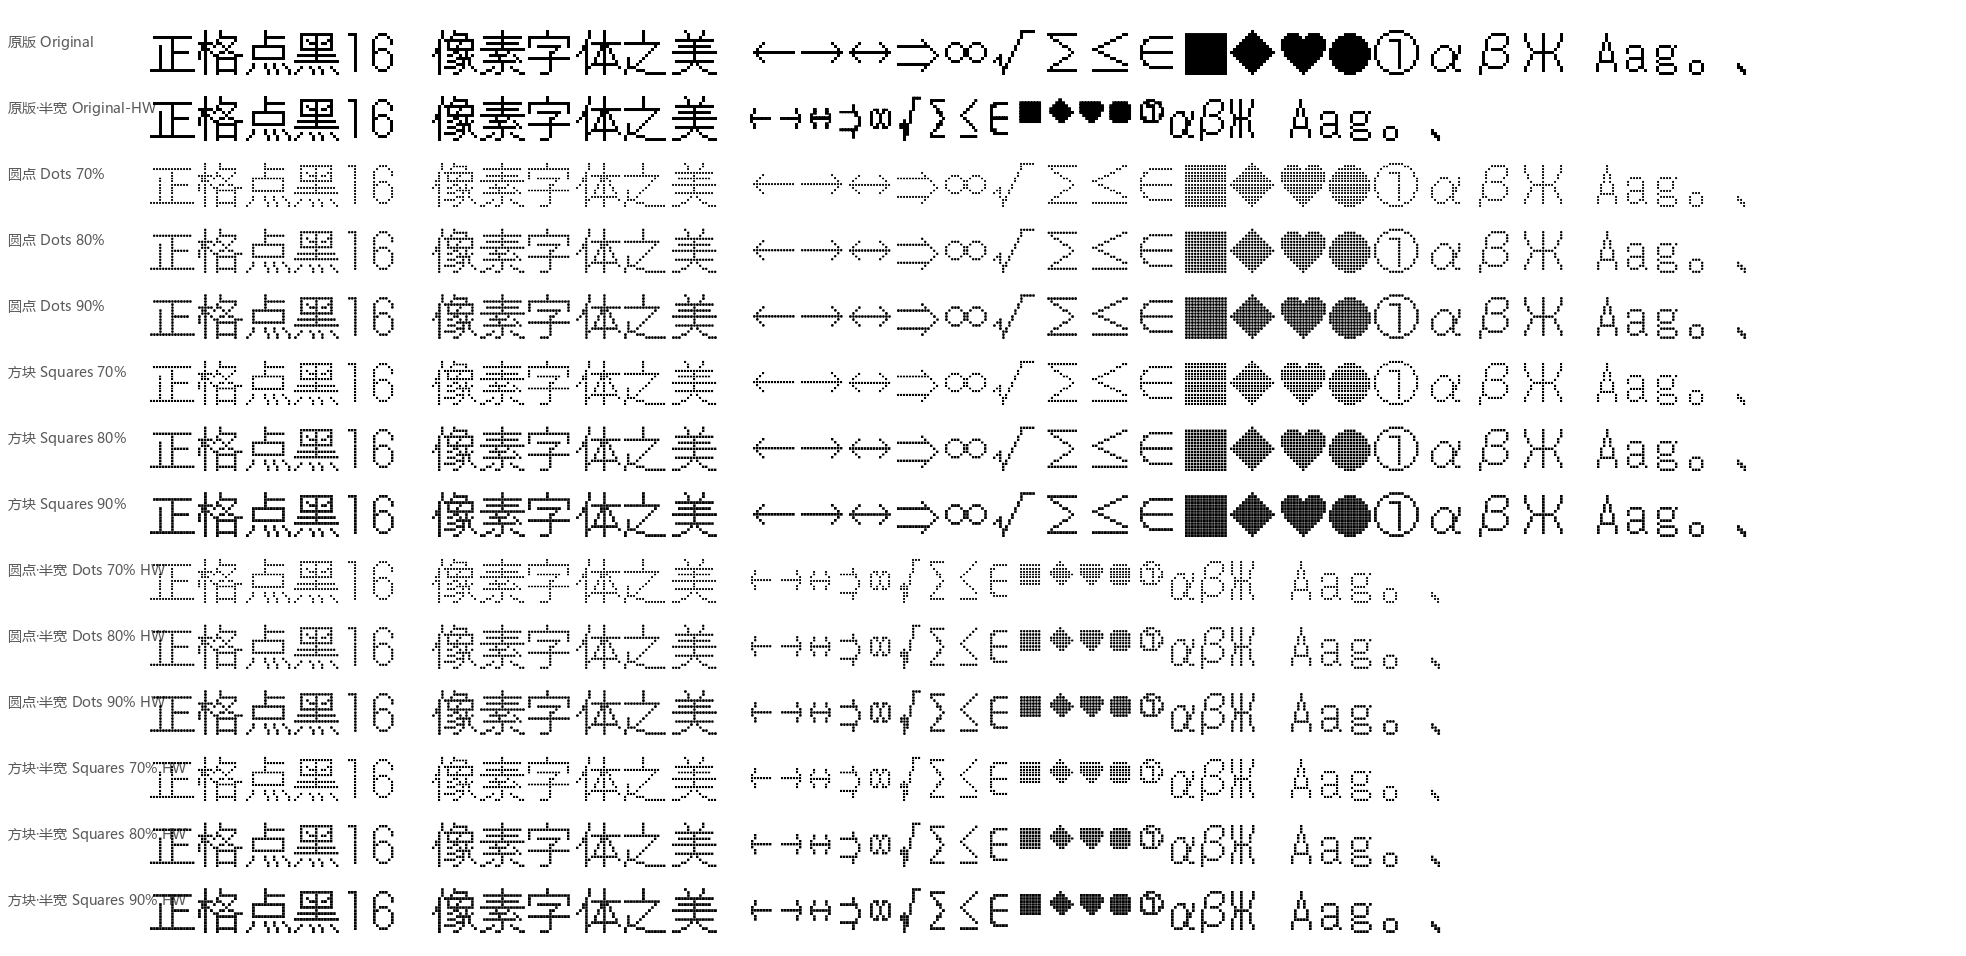
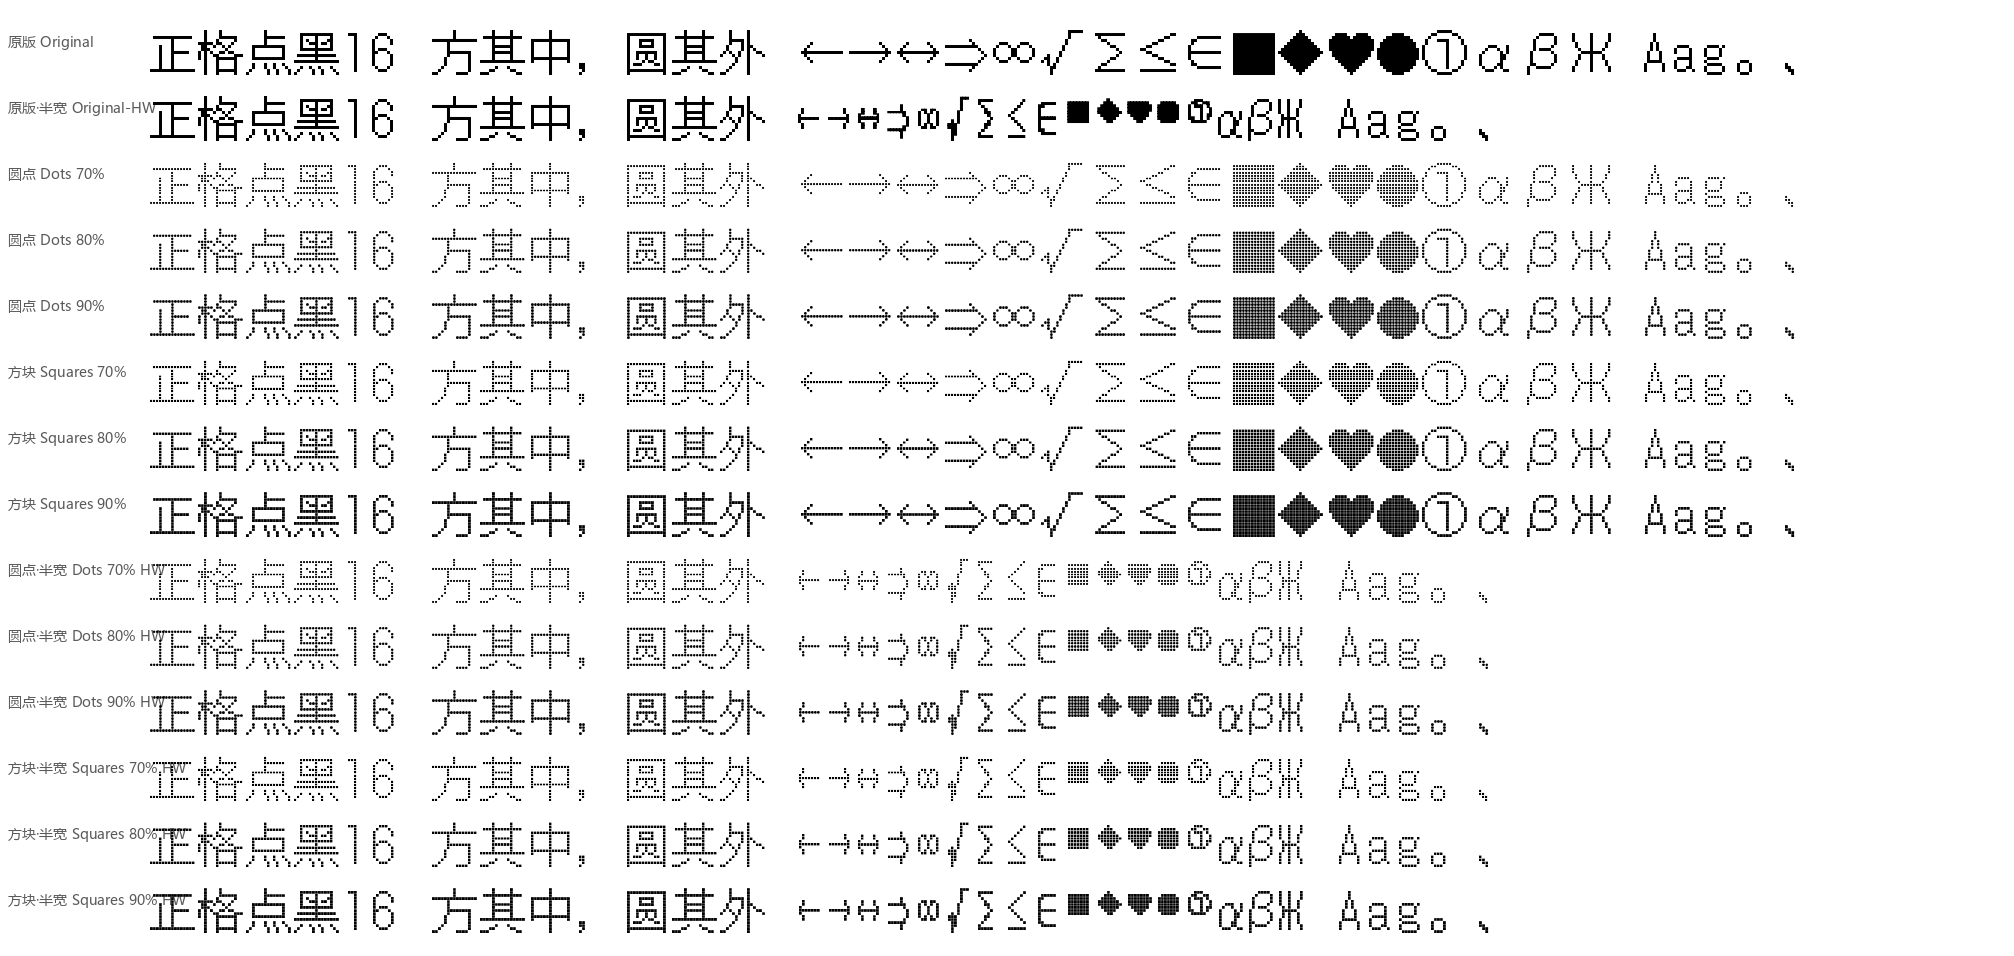
feat: update preview sample, rename release exe to 正格点黑.exe
- Replace preview sample text with 方其中，圆其外

- Update app default preview text

- Generate 30px preview and replace 16px preview

- Rename release EXE to 正格点黑.exe in CI and docs

- Add repository resource dependency table in README

diff --git a/tools/make_preview.py b/tools/make_preview.py
@@ -9,7 +9,7 @@ HW = BASE / "ZhengGeDianHei16-Halfwidth.ttf"
 PREVIEW = BASE / "preview"
 FONTS = PREVIEW / "fonts"
 
-SAMPLE = "正格点黑16 像素字体之美 ←→↔⇒∞√∑≤∈■◆♥●①αβЖ Aag。、"
+SAMPLE = "正格点黑16 方其中，圆其外 ←→↔⇒∞√∑≤∈■◆♥●①αβЖ Aag。、"
 SHORT = "正格点黑永国←→■♥①αЖ"
 
 ROWS = [("原版 Original", SRC),
@@ -68,6 +68,22 @@ def render_zoom(factor=5):
     print("preview_zoom5x.png", img.size)
 
 
+def render_30px():
+    size, row_h, lab_w, pad = 30, 46, 150, 16
+    lf = label_font(14)
+    fonts = [ImageFont.truetype(str(p), size) for _, p in ROWS]
+    w = lab_w + size * len(SAMPLE) + 40
+    img = Image.new("RGB", (w, row_h * len(ROWS) + pad * 2), "white")
+    d = ImageDraw.Draw(img)
+    for r, ((label, _), f) in enumerate(zip(ROWS, fonts)):
+        y = pad + r * row_h
+        d.text((8, y + size // 2 - 12), label, font=lf, fill=(90, 90, 90))
+        d.text((lab_w, y), SAMPLE, font=f, fill=(0, 0, 0))
+        d.line((0, y + row_h - 4, w, y + row_h - 4), fill=(230, 230, 230))
+    img.save(PREVIEW / "preview_30px.png")
+    print("preview_30px.png", img.size)
+
+
 def render_large(size=48):
     row_h, lab_w, pad = size + 18, 150, 16
     lf = label_font(14)
@@ -84,6 +100,5 @@ def render_large(size=48):
 
 
 if __name__ == "__main__":
-    render_16px()
-    render_zoom()
+    render_30px()
     render_large()

diff --git a/src/main.rs b/src/main.rs
@@ -16,7 +16,7 @@ use windows_backend::{FontBackend, InstallState, Variant as BackendVariant, Widt
 const FONT_FAMILY: &str = "zhengge-preview";
 const FONT_DATA_KEY: &str = "zhengge-selected";
 const SYSTEM_FAMILY: &str = "正格点黑 16";
-const DEFAULT_PREVIEW: &str = "正格点黑 16  Aa 0123456789\n像素字体之美 · 中英数字 ↔ →";
+const DEFAULT_PREVIEW: &str = "正格点黑 16  Aa 0123456789\n方其中，圆其外 · 中英数字 ↔ →";
 
 #[derive(Clone, Copy, Debug, PartialEq, Eq, Serialize, Deserialize)]
 enum Shape {

diff --git a/README.md b/README.md
@@ -12,20 +12,36 @@
 
 ---
 
+## 预览
+
+### 48px 预览
+
+![48px 预览](preview/preview_48px.png)
+
+### 30px 预览
+
+![30px 预览](preview/preview_30px.png)
+
+### 应用截图
+
+![应用截图](preview/app.png)
+
+---
+
 ## 快速开始（推荐：Release 包）
 
 1. 打开 [Releases](https://github.com/yaki1210/ZhengGeDianHei-Dotted/releases)，下载最新的 `ZhengGeDianHei16-FontSwitcher-windows.zip`
 2. 解压后目录结构大致为：
 
    ```text
-   正格点黑16字体切换器.exe
+   正格点黑.exe
    fonts\          ← 全部 TTF 变体（必须与 EXE 同级）
    extension\      ← 可选：浏览器扩展
    README.md
    ```
 
 3. **先为所有用户安装任意一个字体文件**（重要，见下方「首次安装」）
-4. 再运行 `正格点黑16字体切换器.exe`，选择变体后点 **应用切换**
+4. 再运行 `正格点黑.exe`，选择变体后点 **应用切换**
 
 > 不要只拷贝 EXE：缺少同级 `fonts\` 目录时，切换器无法加载变体。
 
@@ -129,7 +145,7 @@ cargo build --release --target x86_64-pc-windows-msvc
 ```powershell
 New-Item -ItemType Directory -Force dist\release | Out-Null
 Copy-Item target\x86_64-pc-windows-msvc\release\zhengge-font-switcher.exe `
-  dist\release\正格点黑16字体切换器.exe
+  dist\release\正格点黑.exe
 Copy-Item dist\fonts dist\release\fonts -Recurse -Force
 ```
 
@@ -156,6 +172,23 @@ GitHub Actions 工作流：`.github/workflows/build-rust.yml`（push / 手动触
 | `ZhengGeDianHei-16.ttf`、`ZhengGeDianHei16-Halfwidth.ttf` | 基底字体 |
 | `README.md`、`LICENSE`、`.github/` | 文档与 CI |
 
+### 关键资源依赖说明
+
+下表说明这些资源为什么需要纳入 Git，以及移除后会造成什么影响：
+
+| 资源 | 用途 | 能否从 Git 移除 |
+| --- | --- | --- |
+| `ZhengGeDianHei-16.ttf` | 基底全宽字体，所有变体的生成源 | 否（移除后无法重建字体） |
+| `ZhengGeDianHei16-Halfwidth.ttf` | 半宽符号字体源，由 `tools/fix_halfwidth_symbols.py` 生成 | 否（`-HW` 变体依赖它） |
+| `icon.ico` | Windows 可执行文件图标，`build.rs` 编译时使用 | 否（移除后 EXE 无图标或编译失败） |
+| `icon.png` | 应用窗口图标，`src/main.rs` 通过 `include_bytes!` 嵌入 | 否（移除后 Rust 编译报错） |
+| `tools/*.py` | 字体变体生成、预览图生成、校验脚本 | 否（移除后无法从源码生成字体/预览） |
+| `tools/FontSwitcher.cs` | 旧版 C# 字体切换器参考实现 | 可保留作为历史参考 |
+| `dist/fonts/*.ttf` | 发布用字体变体，与 EXE 配套分发 | 否（Release 包核心内容） |
+| `dist/icon.ico` | 发布包图标副本 | 可保留，与根目录 `icon.ico` 保持一致 |
+| `extension/icons/*.png` | 浏览器扩展图标 | 否（扩展必需） |
+| `preview/*.png` | README 效果预览图 | 否（文档展示用） |
+
 ### 应忽略、不要提交
 
 | 路径 | 原因 |
@@ -168,14 +201,6 @@ GitHub Actions 工作流：`.github/workflows/build-rust.yml`（push / 手动触
 | `Snipaste_*.png`、`__pycache__/`、`plan.md` | 截图、缓存、内部草稿 |
 
 完整规则见 [`.gitignore`](./.gitignore)。
-
----
-
-## 预览
-
-![16px 预览](preview/preview_16px.png)
-
-![48px 预览](preview/preview_48px.png)
 
 ---
 
